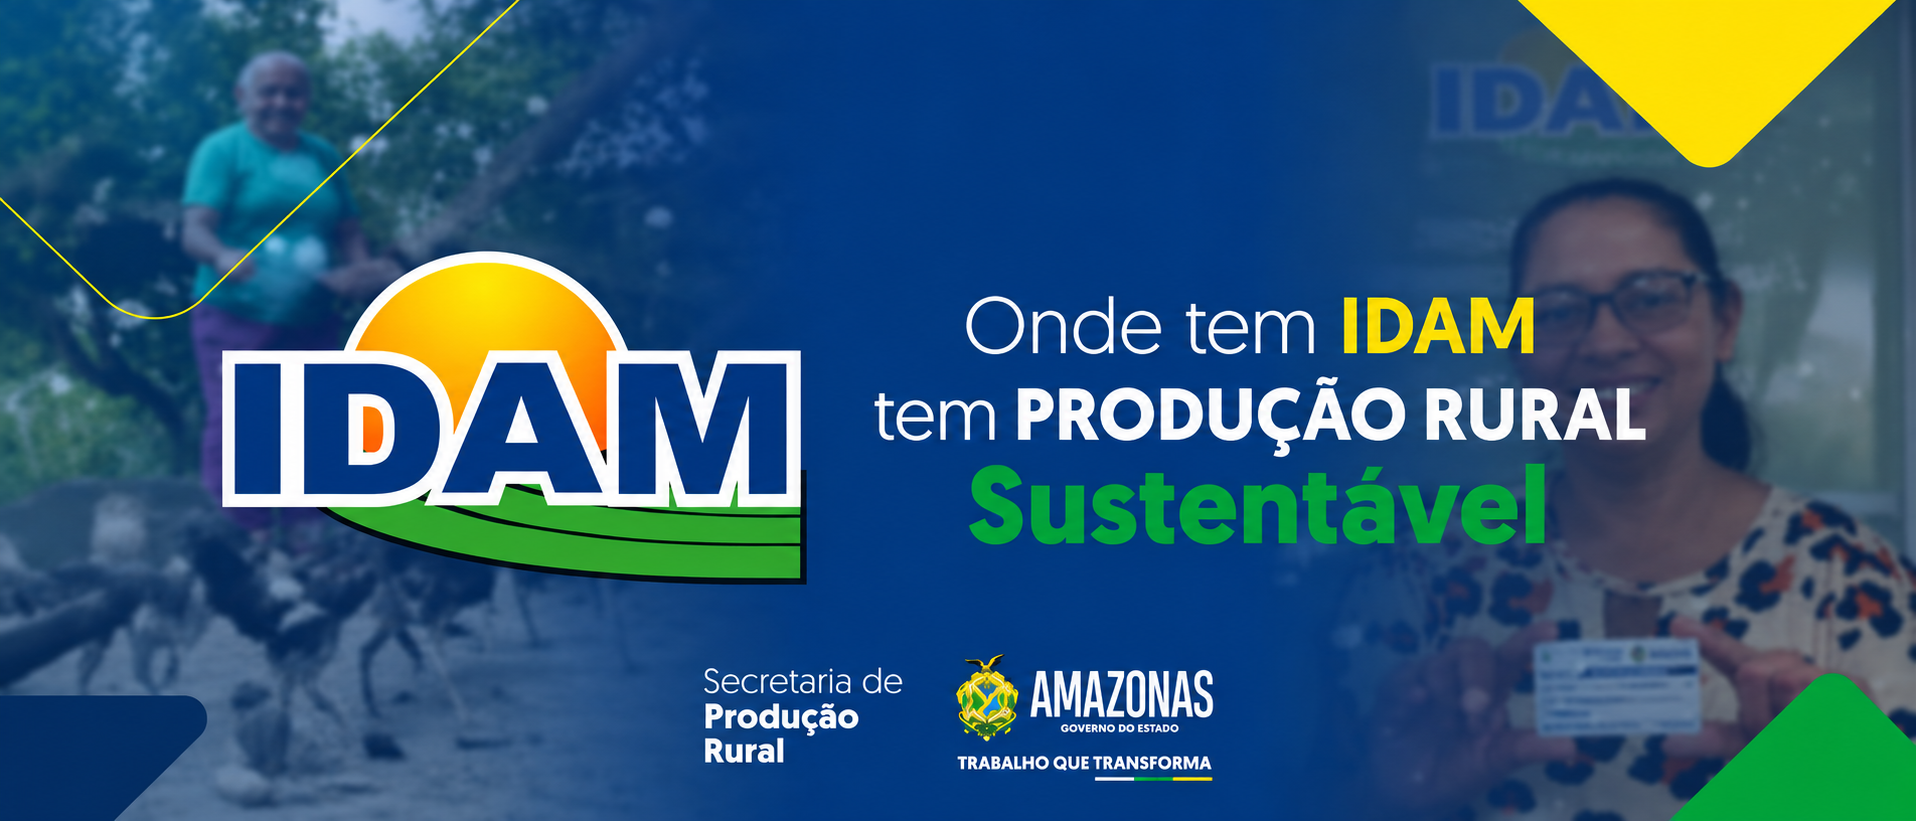
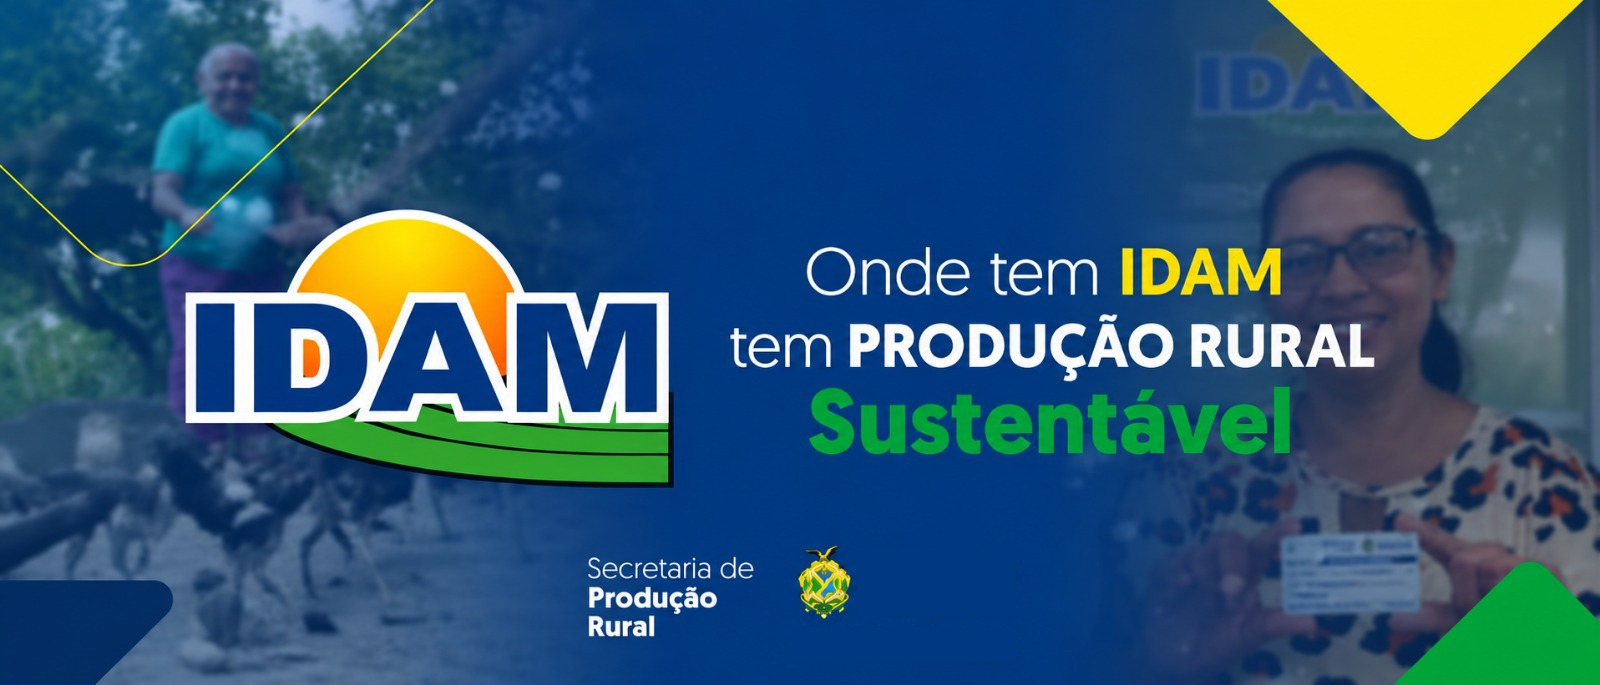
Refatore o BannerCarousel para usar tags de âncora na navegação; melhore a Sidebar com efeitos de animação; atualize as dicas de segurança e os slides do carrossel com novos links e imagens.

diff --git a/frontend/app/_data/home.ts b/frontend/app/_data/home.ts
@@ -1,3 +1,4 @@
+import { link } from "fs";
 import type { LucideIcon } from "lucide-react";
 import {
   ClipboardList,
@@ -13,6 +14,13 @@ import {
   User,
   Users,
 } from "lucide-react";
+
+
+export interface CarouselSlide {
+  src: string;
+  alt: string;
+  onClick: string;
+}
 
 export type DepartmentKey = "PJ" | "RH" | "SGC";
 
@@ -69,22 +77,30 @@ export const quickFiles: LinkItem[] = [
   { title: "Lista de Contatos", icon: Users, href: CONTATOS_URL },
 ];
 
+
+
 // Materiais de orientação exibidos na barra lateral.
 export const securityTips: LinkItem[] = [
+  
   {
-    title: "O que é malware e como se proteger?",
+    title: "Proteja seus dispositivos contra malware",
     icon: ShieldCheck,
     href: "https://www.kaspersky.com.br/resource-center/preemptive-safety/what-is-malware-and-how-to-protect-against-it",
   },
   {
-    title: "Por que você não deve compartilhar suas senhas?",
+    title: "Nunca compartilhe suas senhas",
     icon: Lock,
     href: "https://digitalsecurityguide.eset.com/br/por-que-voce-nao-deve-compartilhar-suas-senhas",
   },
   {
-    title: "Como fazer um chamado",
+    title: "Guia rápido: como abrir um chamado",
     icon: Headphones,
     href: "https://office365prodam-my.sharepoint.com/:b:/g/personal/nti_idam_am_gov_br/EedyNcwHiHFIvvURrOX9Z-oBVP-bAnKVXMgpW1AndAFW6Q?e=RNoSew",
+  },
+    {
+    title: "Cuidado com e-mails suspeitos",
+    icon: Mail,
+    href: "https://www.showmetech.com.br/como-verificar-a-identidade-de-um-e-mail/",
   },
 ];
 
@@ -137,17 +153,43 @@ export const departmentLinks: Record<DepartmentKey, LinkItem[]> = {
 };
 
 // Imagens institucionais usadas pelo carrossel da página inicial.
-export const carouselSlides = [
+export const carouselSlides: CarouselSlide[] = [
   {
     src: "/Gov/banner-idam-intranet.png",
     alt: "Banner IDAM Amazonas - Conectados com o que importa",
+    onClick: "https://www.idam.am.gov.br/intranet/",
   },
   {
     src: "/Gov/banner-idam-producao.png",
-    alt: "Banner IDAM - Produção rural sustentável",
+    alt: "Produção Rural Sustentável",
+    onClick: "https://www.idam.am.gov.br/",
+  },
+  {
+    src: "/Gov/banner-malware.png",
+    alt: "Aprenda sobre malware e proteja seus dispositivos",
+    onClick:
+      "https://www.kaspersky.com.br/resource-center/preemptive-safety/what-is-malware-and-how-to-protect-against-it",
+  },
+  {
+    src: "/Gov/banner-senhas.png",
+    alt: "Por que você não deve compartilhar suas senhas",
+    onClick:
+      "https://digitalsecurityguide.eset.com/br/por-que-voce-nao-deve-compartilhar-suas-senhas",
+  },
+  {
+    src: "/Gov/banner-chamados-nti.png",
+    alt: "Manual de Abertura de Chamados - NTI",
+    onClick:
+      "https://office365prodam-my.sharepoint.com/:b:/g/personal/nti_idam_am_gov_br/EedyNcwHiHFIvvURrOX9Z-oBVP-bAnKVXMgpW1AndAFW6Q?e=RNoSew",
+  },
+
+  {
+    src: "/Gov/banner-email.png",
+    alt: "Como identificar e-mails suspeitos",
+    onClick:
+      "https://www.showmetech.com.br/como-verificar-a-identidade-de-um-e-mail/",
   },
 ];
-
 // Rótulos usados na montagem do calendário mensal.
 export const weekdays = ["SEG", "TER", "QUA", "QUI", "SEX", "SÁB", "DOM"];
 export const months = [

diff --git a/frontend/app/_components/home-dashboard.tsx b/frontend/app/_components/home-dashboard.tsx
@@ -194,23 +194,26 @@ export function BannerCarousel() {
   return (
     <section className="relative aspect-video min-h-[180px] w-full overflow-hidden rounded-[16px] bg-[#06351f] shadow-[0_14px_32px_rgba(11,52,36,0.14)] sm:min-h-0 xl:aspect-[2.32/1]">
       <AnimatePresence mode="wait">
-        <motion.div
+        <motion.a
           key={carouselSlides[active].src}
+          href={carouselSlides[active].onClick}
+          target="_blank"
+          rel="noopener noreferrer"
           initial={{ opacity: 0, scale: 1.02 }}
           animate={{ opacity: 1, scale: 1 }}
           exit={{ opacity: 0, scale: 0.99 }}
           transition={{ duration: 0.45 }}
-          className="absolute inset-0"
+          className="absolute inset-0 cursor-pointer"
         >
           <Image
             src={carouselSlides[active].src}
             alt={carouselSlides[active].alt}
             fill
             priority={active === 0}
-            sizes="(max-width: 640px) 100vw, (max-width: 1280px) 90vw, 70vw"
-            className="object-cover object-center"
+            sizes="100vw"
+            className="object-contain object-center"
           />
-        </motion.div>
+        </motion.a>
       </AnimatePresence>
 
       <div className="absolute inset-x-0 bottom-3 z-20 flex justify-center gap-2 sm:bottom-4">

diff --git a/frontend/app/_components/navigation.tsx b/frontend/app/_components/navigation.tsx
@@ -256,9 +256,24 @@ export function Sidebar({ open, collapsed, onClose }: SidebarProps) {
       </Link>
 
       <SidebarSection title="Arquivos e contatos" items={quickFiles} collapsed={collapsed} />
-      <div className={`mt-7 ${collapsed ? "lg:hidden" : ""}`}>
-        <SidebarSection title="Dicas de segurança" items={securityTips} boxed />
-      </div>
+      <motion.div
+        className={`mt-7 ${collapsed ? "lg:hidden" : ""}`}
+        animate={{
+          scale: [1, 1.02, 1],
+          y: [0, -2, 0],
+        }}
+        transition={{
+          duration: 2,
+          repeat: Infinity,
+          ease: "easeInOut",
+        }}
+      >
+        <SidebarSection
+          title="Dicas de Segurança"
+          items={securityTips}
+          boxed
+        />
+      </motion.div>
     </aside>
   );
 }
